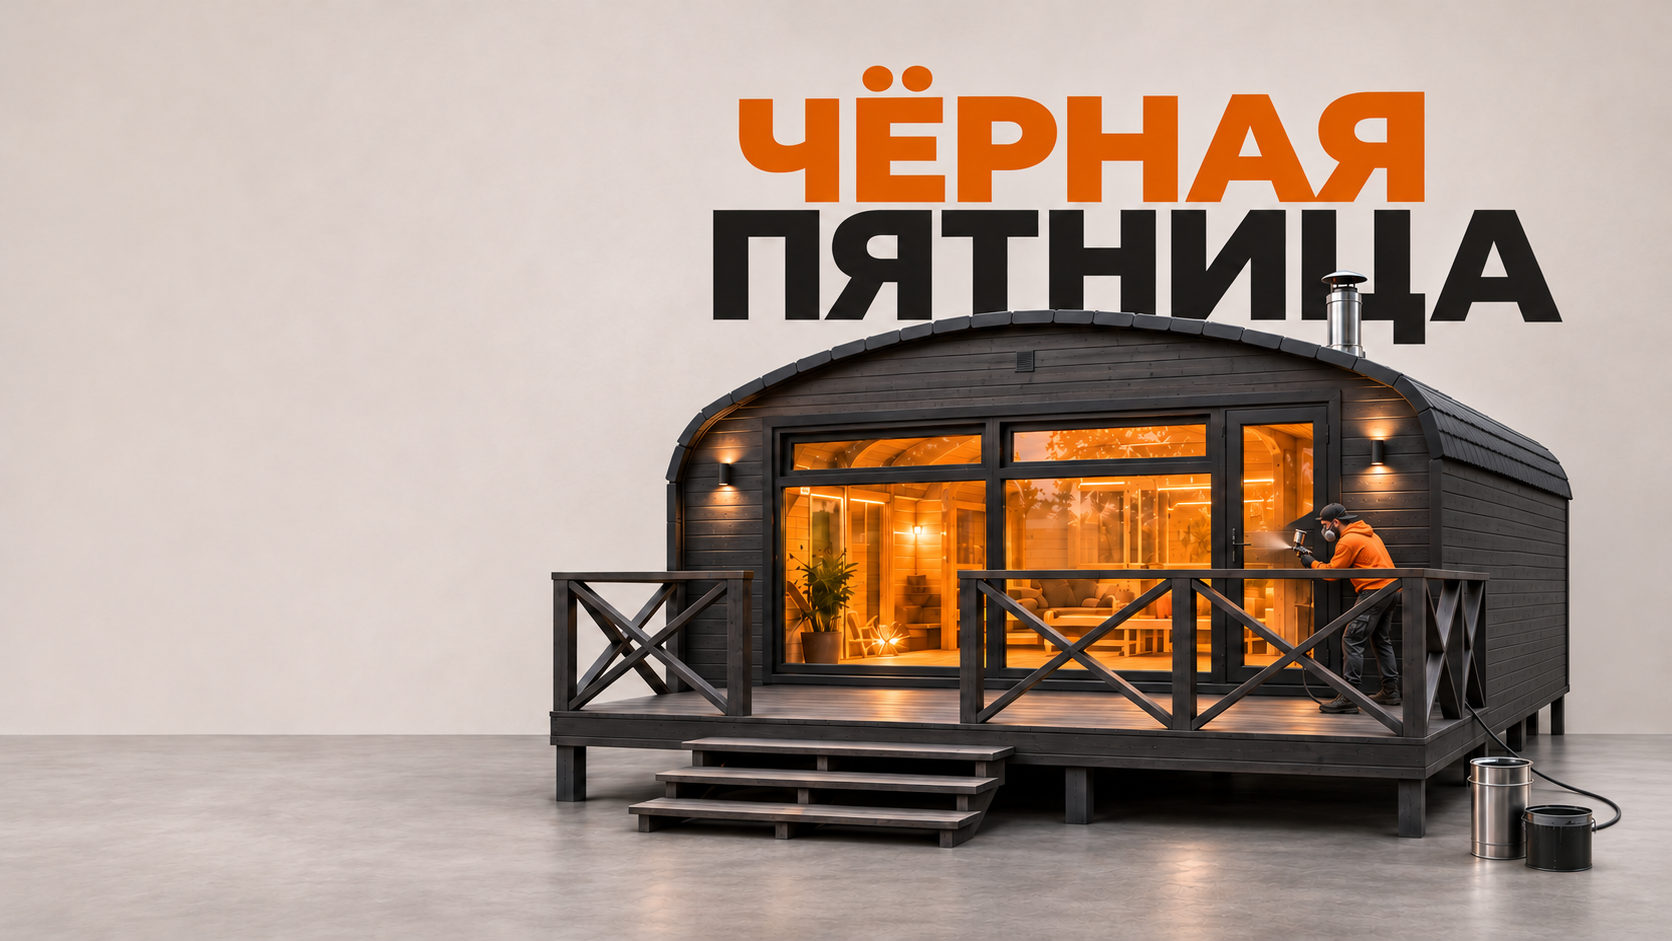
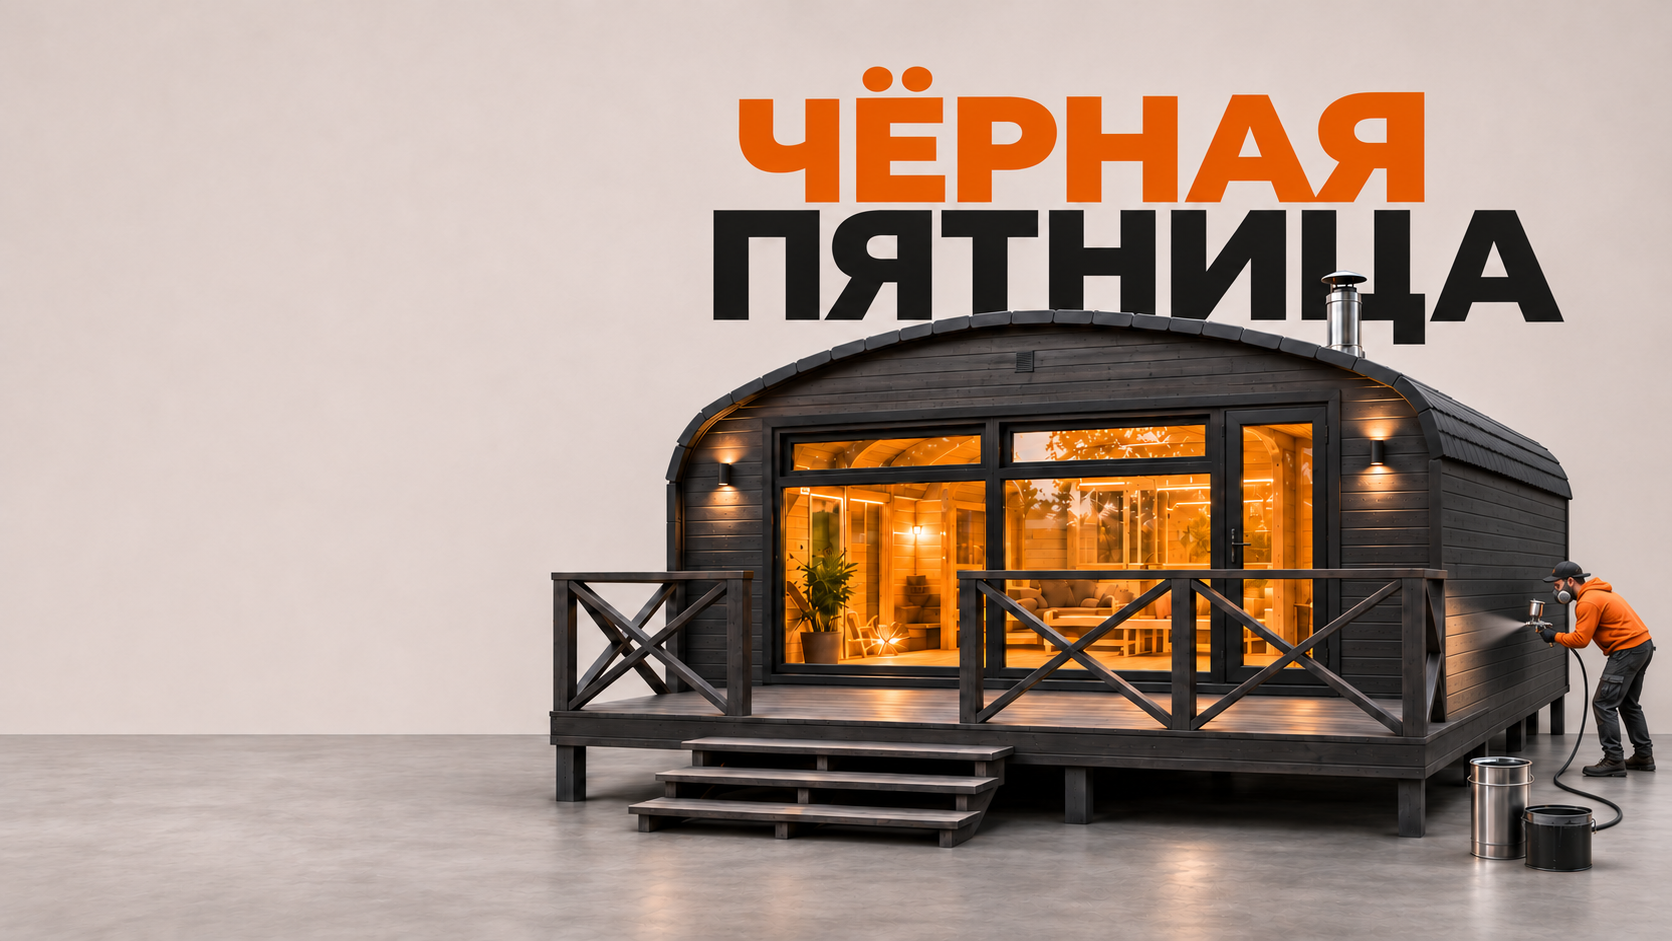
Blend studio background edges and move House painter onto solid siding

Changed region(s): [[0.4665, 0.4315, 0.9952, 0.9245], [0.8086, 0.3082, 0.8397, 0.3698]]

diff --git a/web/blackfriday/style.css b/web/blackfriday/style.css
@@ -12,3 +12,8 @@
 .primary:disabled{opacity:.65;cursor:wait}.campaign-status{margin:0 0 14px;color:#a45123;font-size:13px;font-weight:650}.review-footer{font-size:12px}.review-footer a{margin-left:16px}.inquiry-help{font-size:13px;color:#625b51}.bf-page .lead-success-shown,.bf-page #receipt-success{color:#2d2b28}.bf-page .lead-success-shown .btn{background:#b65b27}.bf-page .receipt-success-icon{color:#a45123;background:#f2e6d6}.bf-page .receipt-success-steps p,.bf-page .receipt-success-intro{color:#625b51}@media(min-width:1101px){.offer{width:37%;max-width:640px}.scene img{mask-image:linear-gradient(to bottom,transparent 0,#000 6%,#000 95%,transparent 100%)}}
 
 @media(max-width:1100px){.scene{height:auto;aspect-ratio:1672/941}.scene img{position:absolute;width:100%;height:auto;right:0;top:0;object-fit:contain;transform:none}}@media(max-width:560px){.scene{aspect-ratio:1672/1411.5}.scene img{width:150%}}
+
+/* Blend the real image edges, rather than the letterboxed img element. */
+@media(min-width:1101px){
+ .scene img{position:absolute;right:0;top:50%;width:auto;height:min(100%,56.28vw);max-width:none;object-fit:fill;transform:translateY(-50%);-webkit-mask-image:linear-gradient(to right,transparent 0,#000 18%,#000 100%),linear-gradient(to bottom,transparent 0,#000 4%,#000 97%,transparent 100%);mask-image:linear-gradient(to right,transparent 0,#000 18%,#000 100%),linear-gradient(to bottom,transparent 0,#000 4%,#000 97%,transparent 100%);-webkit-mask-composite:source-in;mask-composite:intersect}
+}

diff --git a/content/blackfriday-scene.css b/content/blackfriday-scene.css
@@ -1,0 +1,4 @@
+/* Blend the real image edges, rather than the letterboxed img element. */
+@media(min-width:1101px){
+ .scene img{position:absolute;right:0;top:50%;width:auto;height:min(100%,56.28vw);max-width:none;object-fit:fill;transform:translateY(-50%);-webkit-mask-image:linear-gradient(to right,transparent 0,#000 18%,#000 100%),linear-gradient(to bottom,transparent 0,#000 4%,#000 97%,transparent 100%);mask-image:linear-gradient(to right,transparent 0,#000 18%,#000 100%),linear-gradient(to bottom,transparent 0,#000 4%,#000 97%,transparent 100%);-webkit-mask-composite:source-in;mask-composite:intersect}
+}

diff --git a/scripts/build-blackfriday.py b/scripts/build-blackfriday.py
@@ -20,6 +20,7 @@ for model in ['kvadro','parus','viking','kvadro-house']:
 css=(ROOT/'concepts/black-friday-2026/v4/style.css').read_text('utf8').replace("url('assets/manrope-","url('/assets/manrope-")
 css+='\n.primary:disabled{opacity:.65;cursor:wait}.campaign-status{margin:0 0 14px;color:#a45123;font-size:13px;font-weight:650}.review-footer{font-size:12px}.review-footer a{margin-left:16px}.inquiry-help{font-size:13px;color:#625b51}.bf-page .lead-success-shown,.bf-page #receipt-success{color:#2d2b28}.bf-page .lead-success-shown .btn{background:#b65b27}.bf-page .receipt-success-icon{color:#a45123;background:#f2e6d6}.bf-page .receipt-success-steps p,.bf-page .receipt-success-intro{color:#625b51}@media(min-width:1101px){.offer{width:37%;max-width:640px}.scene img{mask-image:linear-gradient(to bottom,transparent 0,#000 6%,#000 95%,transparent 100%)}}\n'
 css+='\n@media(max-width:1100px){.scene{height:auto;aspect-ratio:1672/941}.scene img{position:absolute;width:100%;height:auto;right:0;top:0;object-fit:contain;transform:none}}@media(max-width:560px){.scene{aspect-ratio:1672/1411.5}.scene img{width:150%}}\n'
+css+='\n'+(ROOT/'content/blackfriday-scene.css').read_text('utf8')
 write('blackfriday/style.css',css)
 html=(ROOT/'concepts/black-friday-2026/v4/index.template.html').read_text('utf8')
 html=html.replace('noindex,nofollow','noindex,follow').replace('<body>','<body class="bf-page">').replace('href="style.css"','href="/blackfriday/style.css?v=20261110"')

diff --git a/scripts/build-blackfriday-visual-fix.py b/scripts/build-blackfriday-visual-fix.py
@@ -1,0 +1,13 @@
+"""Only the two approved visual corrections; never rebuild the already published home."""
+import hashlib,json
+from pathlib import Path
+from PIL import Image
+ROOT=Path(__file__).resolve().parents[1]
+path=ROOT/'web/blackfriday/style.css';css=path.read_text('utf8');marker='/* Blend the real image edges'
+if marker in css:css=css[:css.index(marker)]
+css+='\n'+(ROOT/'content/blackfriday-scene.css').read_text('utf8');path.write_bytes(css.encode())
+source=ROOT/'concepts/black-friday-2026/v4/assets/scene-kvadro-house.png';dest=ROOT/'web/blackfriday/assets/scene-kvadro-house.webp'
+with Image.open(source) as image:
+ image.save(dest,'WEBP',lossless=True,method=6)
+ with Image.open(dest) as check:assert check.convert('RGB').tobytes()==image.convert('RGB').tobytes()
+print(json.dumps({'visual_files':2,'pricing_changed':False,'house_source_sha256':hashlib.sha256(source.read_bytes()).hexdigest()}))

diff --git a/scripts/prepare-blackfriday-release.py b/scripts/prepare-blackfriday-release.py
@@ -1,8 +1,8 @@
 """Capture public production sources and prepare a narrow, hash-guarded web overlay."""
-import argparse,base64,gzip,hashlib,io,json,shutil,subprocess,tarfile
+import argparse,base64,gzip,hashlib,io,json,os,shutil,subprocess,tarfile
 from pathlib import Path
 ROOT=Path(__file__).resolve().parents[1]
-OUT=ROOT/'.local/blackfriday-20261110'
+OUT=ROOT/'.local'/os.environ.get('DACHAPAR_BF_PACKAGE','blackfriday-20261110')
 SOURCE='''import pathlib,json,hashlib,base64
 w=pathlib.Path('/srv/sites/dachapar-preview/current').resolve(strict=True);a=pathlib.Path('/srv/services/garant-bani-relay/current').resolve(strict=True)
 assert w.parent==pathlib.Path('/srv/sites/dachapar-preview/releases') and a.parent==pathlib.Path('/srv/services/garant-bani-relay/releases')

diff --git a/scripts/upload-blackfriday-release.py b/scripts/upload-blackfriday-release.py
@@ -1,7 +1,7 @@
 """Resumable binary SSH upload of reviewed artifacts, then read-only remote preflight."""
-import base64,gzip,hashlib,io,json,shlex,subprocess,tarfile,time
+import base64,gzip,hashlib,io,json,os,shlex,subprocess,tarfile,time
 from pathlib import Path
-ROOT=Path(__file__).resolve().parents[1];OUT=ROOT/'.local/blackfriday-20261110'
+ROOT=Path(__file__).resolve().parents[1];OUT=ROOT/'.local'/os.environ.get('DACHAPAR_BF_PACKAGE','blackfriday-20261110')
 c=json.loads((OUT/'deployment.json').read_text('utf8'));folder='/tmp/dachapar-blackfriday-'+c['release'].removeprefix('BF-')
 files={'deployment.json':(OUT/'deployment.json').read_bytes(),'payload.tar.gz':(OUT/'payload.tar.gz').read_bytes()}
 for name,digest in c['support_files'].items():

diff --git a/scripts/publish-blackfriday-terminal.py b/scripts/publish-blackfriday-terminal.py
@@ -1,7 +1,7 @@
 """One password prompt; publication is detached and reconnects to its persisted receipt."""
-import base64,getpass,json,re,shlex,subprocess,time
+import base64,getpass,json,os,re,shlex,subprocess,time
 from pathlib import Path
-ROOT=Path(__file__).resolve().parents[1];OUT=ROOT/'.local/blackfriday-20261110'
+ROOT=Path(__file__).resolve().parents[1];OUT=ROOT/'.local'/os.environ.get('DACHAPAR_BF_PACKAGE','blackfriday-20261110')
 ssh=['ssh','-T','-o','BatchMode=yes','-o','ConnectTimeout=12','-o','IPQoS=none','-o','ServerAliveInterval=5','-o','ServerAliveCountMax=2','dachapar']
 def state(status,**values):(OUT/'terminal-state.json').write_bytes(json.dumps({'status':status,**values},ensure_ascii=False,indent=2).encode())
 def call(code):

diff --git a/docs/BLACKFRIDAY-2026.md b/docs/BLACKFRIDAY-2026.md
@@ -72,3 +72,16 @@ API, БД, systemd, Caddy, порты, аккаунты и MFA не меняют
 на сервере в /var/backups/dachapar/BF-<id>/, локально — deployment-result.json.
 Для ручного отката вернуть symlink сайта на previous_web из state.json;
 базу и API восстанавливать из старой копии не требуется.
+
+## Визуальное исправление 11 ноября
+
+Первый выпуск: BF-8eeb2708b2c8. Исправление меняет только style.css и
+scene-kvadro-house.webp. Маска применяется к реальным границам изображения,
+чтобы при широком экране не оставался вертикальный край letterbox-фона.
+Художник перенесён с террасы к непрозрачной боковой стене; стекло не красится.
+Проверено в браузере при 2048, 1366 и 390 px; горизонтального переполнения нет.
+
+Отдельный пакет: .local/blackfriday-visual-fix-20261111. Для подготовщика,
+загрузчика и терминала он задаётся через DACHAPAR_BF_PACKAGE; для PowerShell —
+параметром -Package blackfriday-visual-fix-20261111. Исходная квитанция первого
+выпуска сохраняется. Главная и цены в этом исправлении не пересобираются.
